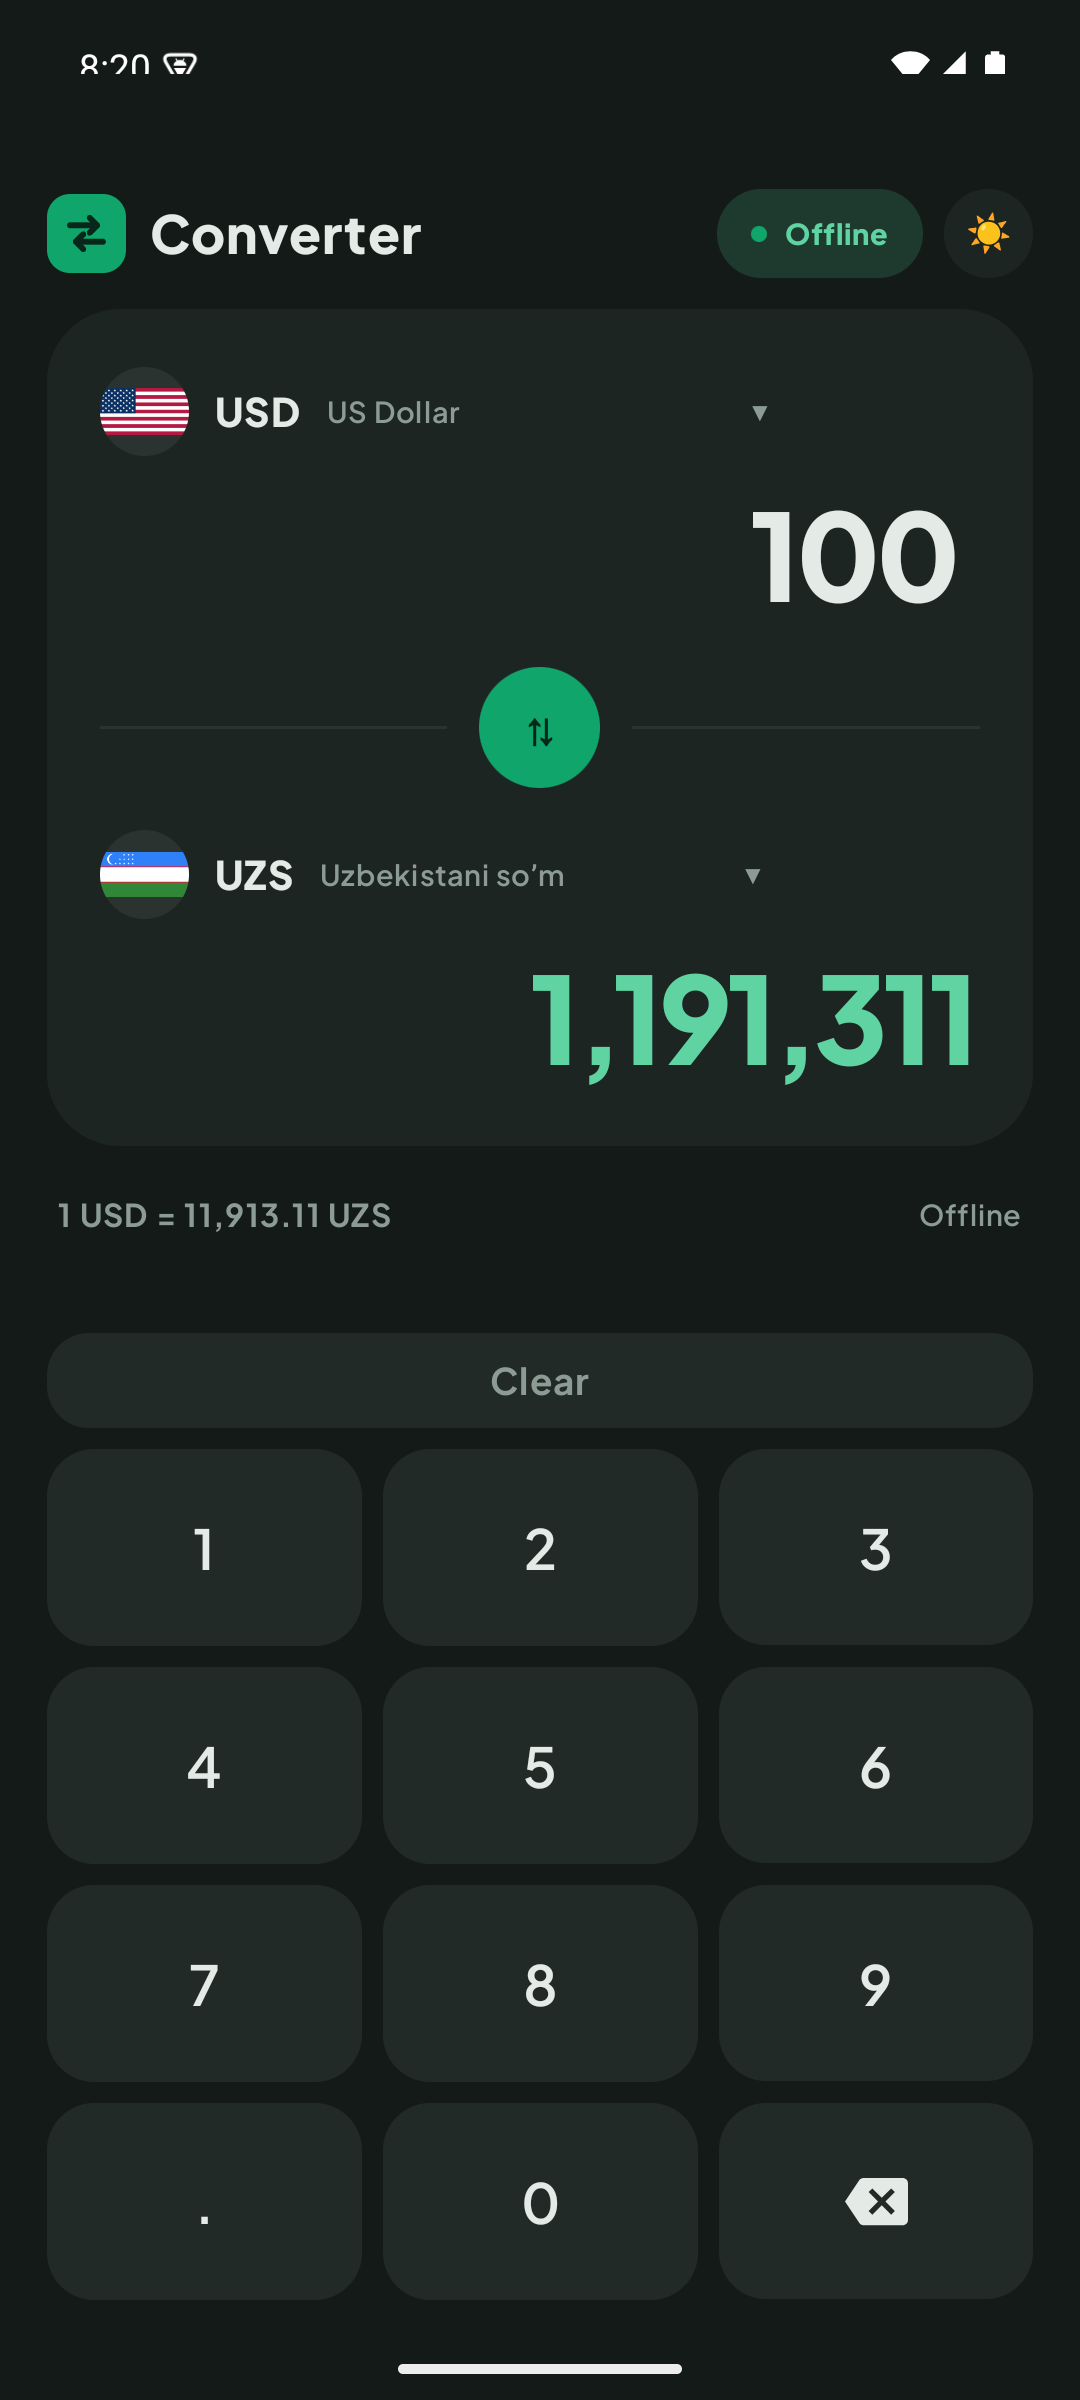
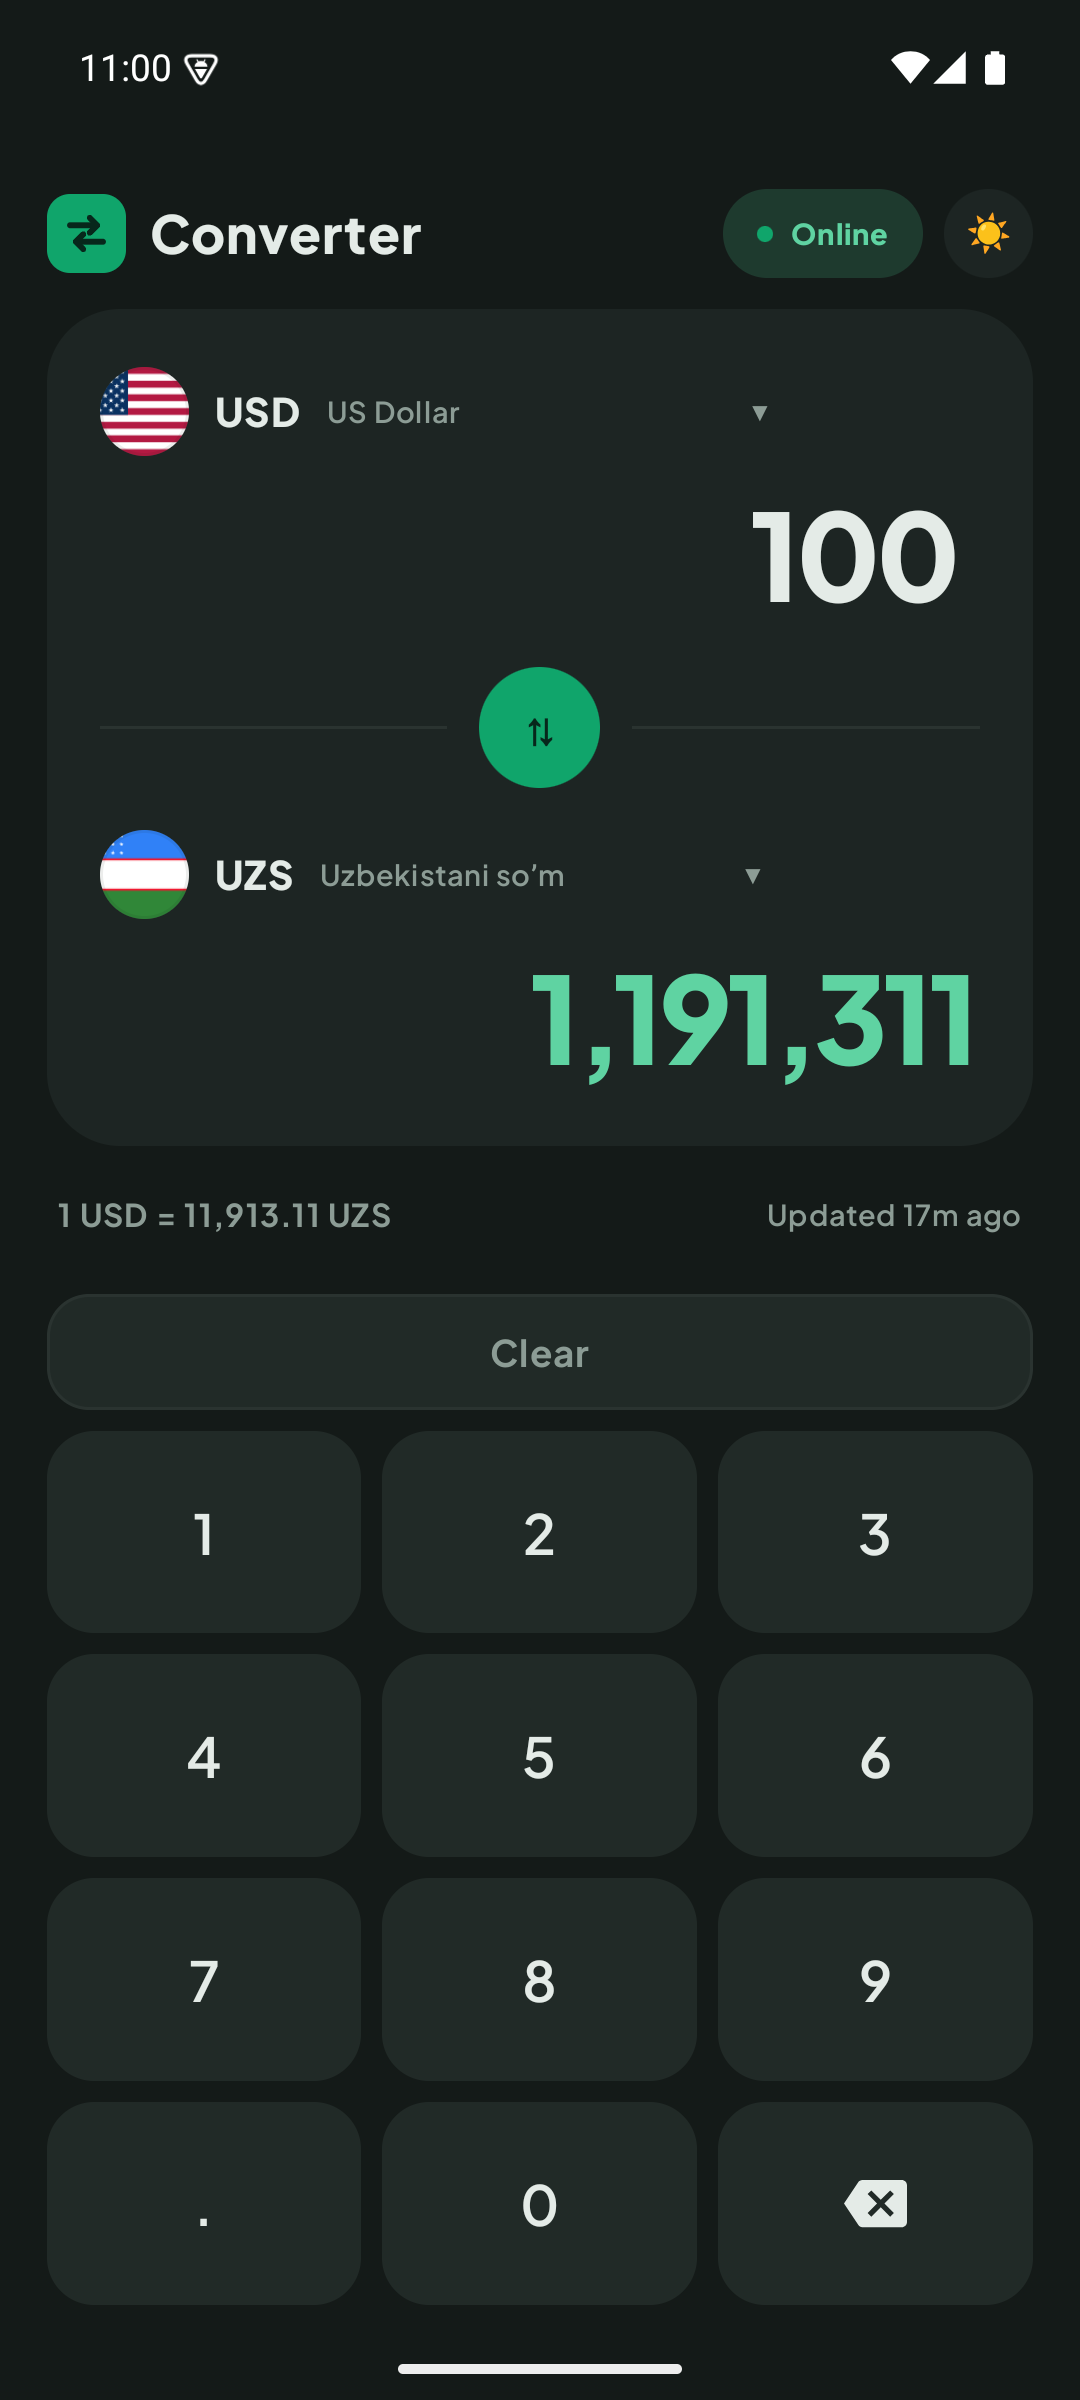
docs: refresh Android screenshots, update feature list; bump to v1.0.2 (versionCode 3)

diff --git a/ios/CurrencyConverterUITests/CurrencySheetUITests.swift b/ios/CurrencyConverterUITests/CurrencySheetUITests.swift
@@ -130,8 +130,14 @@ final class CurrencySheetUITests: XCTestCase {
         // a real, observable change regardless of run order.
         let themeIconBefore = app1.buttons["themeToggleButton"].label
 
-        // Change FROM to EUR.
+        // Change FROM to EUR. With no default favorites, EUR isn't laid out
+        // near the top of the LazyVStack purely alphabetically, so search
+        // for it first (the same way a real user would).
         app1.buttons["fromCurrencyRow"].tap()
+        let searchField1 = app1.textFields["currencySearchField"]
+        XCTAssertTrue(searchField1.waitForExistence(timeout: 3))
+        searchField1.tap()
+        searchField1.typeText("EUR")
         XCTAssertTrue(app1.buttons["currencyRow_EUR"].waitForExistence(timeout: 3))
         app1.buttons["currencyRow_EUR"].tap()
         XCTAssertTrue(app1.staticTexts["fromCodeText"].waitForExistence(timeout: 3))
@@ -184,15 +190,46 @@ final class CurrencySheetUITests: XCTestCase {
         // scrim behind it and close it again. So: at most ONE bounded
         // retry, each time confirming state before deciding whether to tap
         // again.
+        // AED sorts alphabetically first with no favorites pinned above it,
+        // so — unlike USD — it's laid out at the top without any scrolling.
         app.buttons["fromCurrencyRow"].tap()
-        if !app.buttons["currencyRow_USD"].waitForExistence(timeout: 2) {
+        if !app.buttons["currencyRow_AED"].waitForExistence(timeout: 2) {
             app.buttons["fromCurrencyRow"].tap()
         }
-        XCTAssertTrue(app.buttons["currencyRow_USD"].waitForExistence(timeout: 6), "Sheet with favorite rows never opened")
+        XCTAssertTrue(app.buttons["currencyRow_AED"].waitForExistence(timeout: 6), "Sheet with currency rows never opened")
         Thread.sleep(forTimeInterval: 0.5)
 
         let attachment = XCTAttachment(screenshot: XCUIScreen.main.screenshot())
         attachment.name = "currency-sheet-favorites"
+        attachment.lifetime = .keepAlways
+        add(attachment)
+    }
+
+    /// Audit proof (temporary, not part of the permanent regression suite):
+    /// investigates the user-reported "search field tap doesn't bring up the
+    /// keyboard on iPhone 17 Pro Max" bug. Opens the sheet, taps the search
+    /// field via a real touch (XCUITest .tap(), the same touch-delivery path
+    /// as a physical/simulated tap — NOT typeText, which injects keystrokes
+    /// without needing a visible keyboard and would prove nothing here), then
+    /// screenshots BEFORE typing anything so the screenshot is evidence of
+    /// whether the on-screen keyboard actually appeared from the tap alone.
+    func test_zzv_keyboardAppearsAfterTappingSearchField() throws {
+        let app = XCUIApplication()
+        app.launch()
+        XCTAssertTrue(app.staticTexts["fromCodeText"].waitForExistence(timeout: 5))
+
+        app.buttons["fromCurrencyRow"].tap()
+        let searchField = app.textFields["currencySearchField"]
+        XCTAssertTrue(searchField.waitForExistence(timeout: 3), "Currency sheet never opened")
+
+        searchField.tap()
+        // Give the keyboard animation + our 0.35s auto-focus delay time to settle.
+        Thread.sleep(forTimeInterval: 1.0)
+
+        XCTAssertTrue(app.keyboards.element.waitForExistence(timeout: 3), "On-screen keyboard did not appear after tapping the search field")
+
+        let attachment = XCTAttachment(screenshot: XCUIScreen.main.screenshot())
+        attachment.name = "search-field-keyboard-after-tap"
         attachment.lifetime = .keepAlways
         add(attachment)
     }

diff --git a/README.md b/README.md
@@ -37,11 +37,12 @@ Every tagged release ships an installable APK. iOS is built from source (see bel
 
 - **Works fully offline** — a rates snapshot ships inside the app, so conversion works on first launch with no network.
 - **Real conversion** — cross-rate math through a USD base: `result = amount ÷ rate[from] × rate[to]`.
-- **166 currencies**, each with a circular flag; live editing on either side with a tabular, auto-shrinking amount.
-- **⭐ Favourites** — star currencies; they sort to the top and persist.
-- **Search** currencies by code or country, with auto-focus.
+- **166 currencies**, each with a circular flag (supranational currencies like XAF/XOF/XDR get a coloured code badge); live editing on either side with a tabular, auto-shrinking amount.
+- **Automatic Online / Offline** — follows the real network state; no manual toggle. The meta row shows when rates were last updated ("Updated 5m ago").
+- **⭐ Favourites** — star currencies; they sort to the top and persist (none starred by default).
+- **Search** currencies by code or country, with a search icon and auto-focus.
 - **Light & dark themes**, remembered across launches (along with your from/to pair and favourites).
-- **Live refresh when online** — pulls latest rates from a free, key-less API and caches them; the meta row shows the data age.
+- **Responsive** — the layout adapts from small phones to large tablets; the keypad never clips.
 
 ## 🏗 How it works
 
